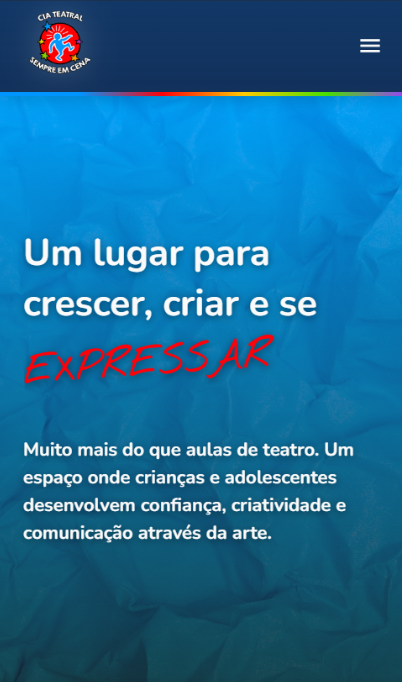
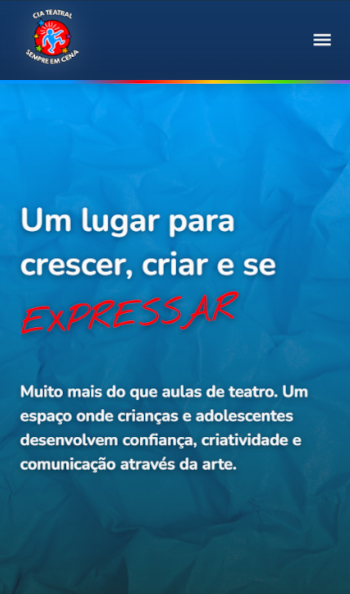
docs: ajuste de tamanho dos screenshots do README

diff --git a/README.md b/README.md
@@ -1,5 +1,13 @@
 # Sempre em Cena Institutional Website
 
+## Overview
+
+This project is the development of an institutional website for **Companhia Teatral Sempre em Cena**, a company that uses theatrical games as a tool for the personal and artistic development of children and teenagers.
+
+Through theater-based activities, the company helps students develop communication skills, confidence, creativity, teamwork, body expression, and emotional awareness.
+
+The website was created to strengthen the company's digital presence and provide an easier way for parents and students to understand how the company works, its methodology, teachers, locations, schedules, and activities.
+
 ## Screenshots
 
 ### Desktop
@@ -9,14 +17,6 @@
 ### Mobile
 
 ![Mobile Preview](./docs/screenshots/home-mobile.png)
-
-## About
-
-This project is the development of an institutional website for **Companhia Teatral Sempre em Cena**, a company that uses theatrical games as a tool for the personal and artistic development of children and teenagers.
-
-Through theater-based activities, the company helps students develop communication skills, confidence, creativity, teamwork, body expression, and emotional awareness.
-
-The website was created to strengthen the company's digital presence and provide an easier way for parents and students to understand how the company works, its methodology, teachers, locations, schedules, and activities.
 
 ## Client Project
 
